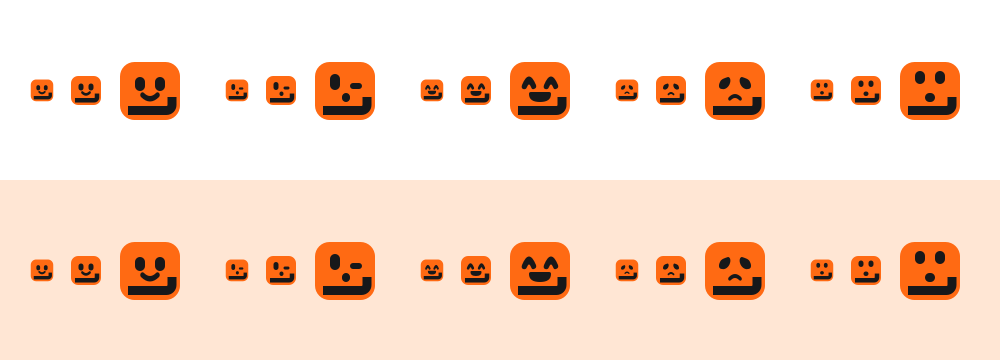
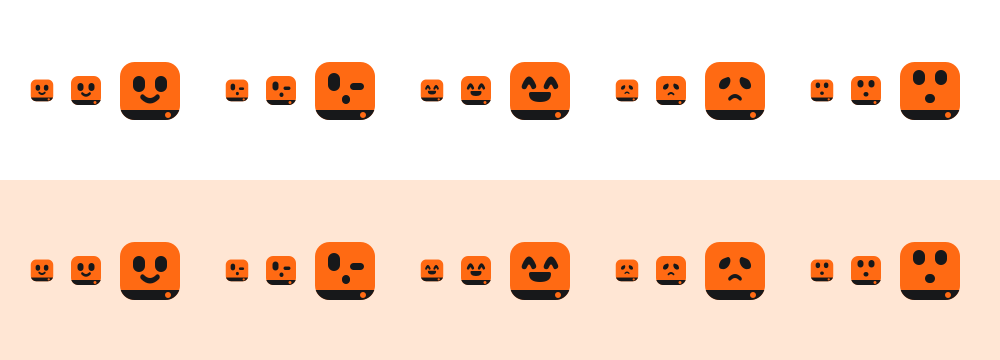
feat(brand-v4): 손 보정 - 환승역 심볼, 락 높이 정렬, 마주 눈과 띠 고리
Claude-Session: https://claude.ai/code/session_01LcqnJLJ9tmhE7G2jz9EpLE

diff --git a/design/brand-v4/maju/NOTES.md b/design/brand-v4/maju/NOTES.md
@@ -2,7 +2,7 @@
 
 모임 총무를 맡은 눈치 빠른 친구. 확인한 사실만 짧게 말하고, 재촉은 하되 누구도 탓하지 않는다.
 
-마주는 로고 심볼이 아니다. 로고 자리에 얼굴을 넣지 않는다. 역명판에서 가져온 띠는 얼굴 가장 아래 y=54~62의 끝에 붙이고 꺾임을 없앴다. 입과 떨어진 바닥 줄이므로 턱이나 두 번째 입으로 읽히지 않는다. 컬러는 탠저린 바탕에 잉크색 눈과 입, 잉크색 하단 띠다. 단색은 눈과 입을 투명하게 뚫고 y=51~54의 투명한 틈으로 얼굴과 양각 띠를 나눈다. 모든 표정은 같은 윤곽을 쓰며 몸과 볼, 하이라이트는 없다. small/의 일곱 표정은 띠를 생략한 24~32px 안내용이다. 일반형은 48~64px 빈 화면이나 상태 안내에 쓴다. 16px에서도 두 눈은 각각 분리되지만 로고나 파비콘으로 사용하지 않는다.
+마주는 로고 심볼이 아니다. 로고 자리에 얼굴을 넣지 않는다. 역명판에서 가져온 띠는 얼굴 가장 아래 y=52~62의 끝에 붙인 직선이다. 입과 떨어진 바닥 줄이므로 턱이나 두 번째 입으로 읽히지 않는다. 띠 오른쪽 끝(50, 57)에는 로고 심볼의 역과 같은 지름 6의 고리를 뚫어 탠저린이 비친다. 로고와 캐릭터를 묶는 고리는 이것 하나다. 눈은 폭 12에 높이 16으로 키우고 얼굴 가운데보다 조금 아래에 두어 어리고 친근하게 보이게 했다. 컬러는 탠저린 바탕에 잉크색 눈과 입, 잉크색 하단 띠다. 단색은 눈과 입을 투명하게 뚫고 y=49~52의 투명한 틈으로 얼굴과 양각 띠를 나눈다. 모든 표정은 같은 윤곽을 쓰며 몸과 볼, 하이라이트는 없다. small/의 일곱 표정은 띠를 생략한 24~32px 안내용이다. 일반형은 48~64px 빈 화면이나 상태 안내에 쓴다. 16px에서도 두 눈은 각각 분리되지만 로고나 파비콘으로 사용하지 않는다.
 
 기본은 일반 안내, 생각 중은 후보를 계산하는 동안, 기쁨은 약속이 확정됐을 때, 미안함은 처리 실패나 가능한 후보가 없을 때, 기다림은 응답을 기다리는 동안 쓴다. 읽씹당함은 읽음 상태를 확인할 수 있을 때만, 시간 겹침은 전원 가능 시간이 실제로 확인됐을 때만 쓴다.
 
